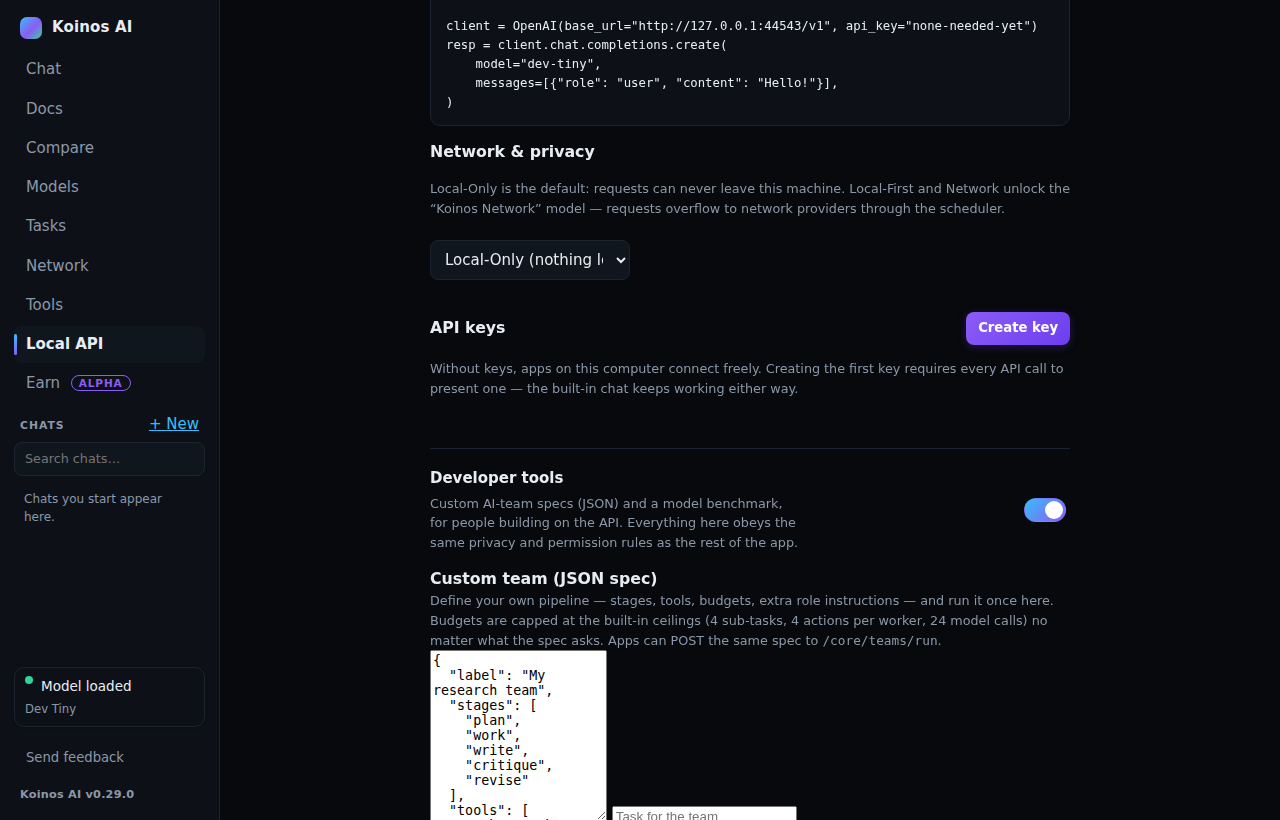
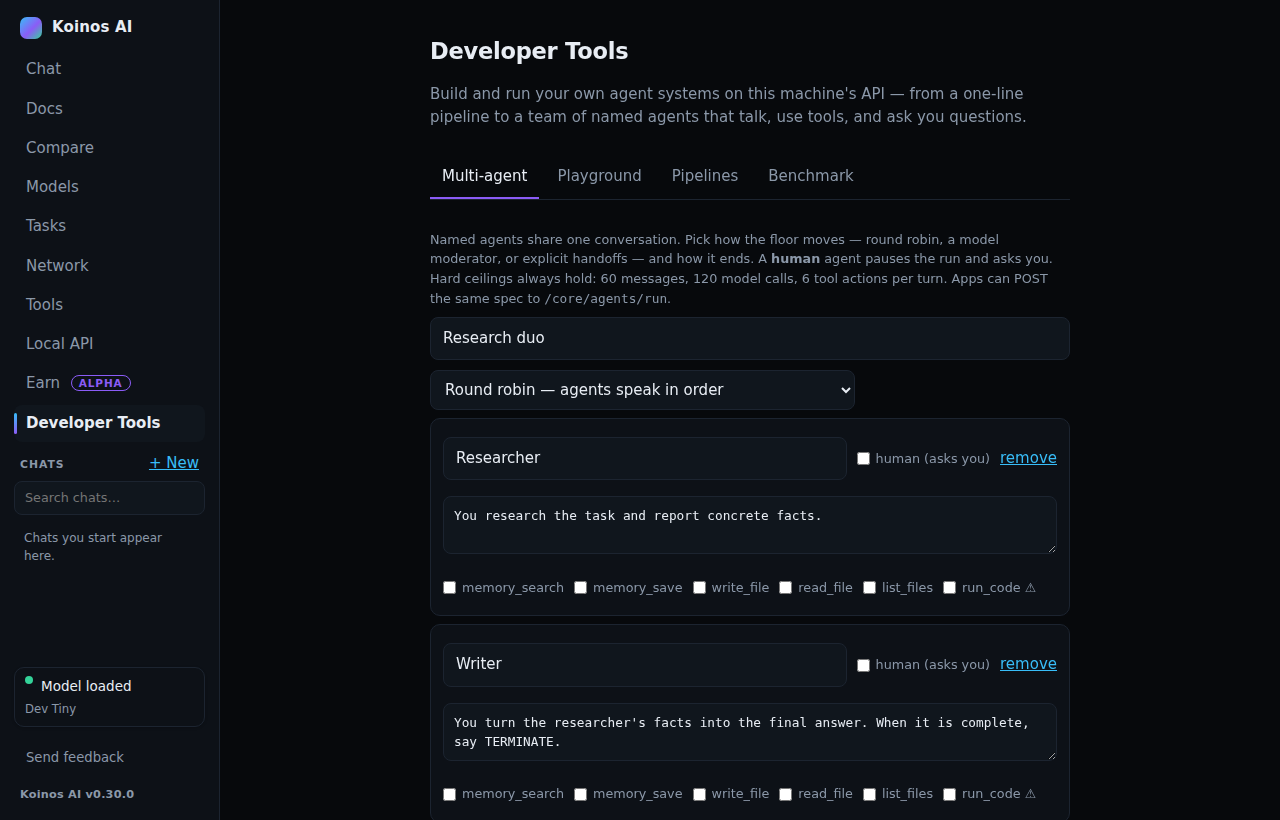
docs: Developer Tools page — multi-agent builder, playground, pipelines, bench
New sidebar page for the v0.30.0 Developer Tools view: turning it on,
building conversational teams (modes, human-in-the-loop, ceilings),
the live playground, the simple pipeline track, the benchmark, and
the HTTP endpoints behind all of it. local-api.md's developer section
now points here. All screenshots regenerated from a real v0.30.0
build — api-dev.png shows the new Multi-agent builder, plus two new
shots (playground, pipelines). Docs probe: 14 pages, green.

diff --git a/public/docs/index.html b/public/docs/index.html
@@ -83,6 +83,7 @@ const PAGES = [
   { id: "tools", title: "Tools, agents & MCP" },
   { id: "teams", title: "AI Teams & run code" },
   { id: "koinos-code", title: "Koinos Code (CLI)" },
+  { id: "developer-tools", title: "Developer Tools" },
   { id: "email-calendar", title: "Email, calendar, memory" },
   { id: "node", title: "Run a Koinos node" },
   { group: "Reference" },

diff --git a/public/docs/content/developer-tools.md b/public/docs/content/developer-tools.md
@@ -1,0 +1,56 @@
+# Developer Tools — build your own agent systems
+
+**Developer Tools** (v0.30.0+) is its own section in the sidebar, for people who want more than the built-in team templates: design your own multi-agent systems — named agents that talk to each other, use tools, and even pause to ask *you* — then run them live.
+
+## Turn it on
+
+1. Open **Local API** and flip the **Developer tools** switch at the bottom.
+2. **Developer Tools** appears in the sidebar. Click it.
+
+You should see: a page with four sections along the top — **Multi-agent**, **Playground**, **Pipelines**, **Benchmark**.
+
+![Developer Tools — the Multi-agent builder](img/api-dev.png)
+
+## Multi-agent — teams that converse
+
+Unlike the simple pipelines, a multi-agent team is a **conversation**: named agents share one transcript and take turns.
+
+1. Give the team a name and pick how the floor moves:
+   - **Round robin** — agents speak in order, cycling.
+   - **Selector** — a model moderator reads the conversation and picks who speaks next.
+   - **Handoff** — the current speaker keeps the floor until it passes it by name.
+2. Add agents with **+ Add agent**. Each has a name, role instructions, and its own tools. Tick **human (asks you)** to put *yourself* in the team — when your turn comes, the run pauses and waits for your words.
+3. Set when it ends: a message limit, a model-call limit, and an end phrase (an agent saying "TERMINATE" stops the run).
+4. **Write the JSON below** turns the form into the spec — the JSON box is always what actually runs. **Save team** keeps it for later.
+
+Rules that always hold, whatever the spec says: at most 8 agents, 60 messages, 120 model calls, and 6 tool actions per turn — budgets only go *down*. A team with `run_code` still asks you before any code executes, exactly like everywhere else in the app.
+
+## Playground — watch it run
+
+![The Playground — a live team conversation](img/devtools-playground.png)
+
+1. Pick a team (the JSON in the builder, or a saved one), type a task, click **Run**.
+2. Each agent's turn appears as a named bubble; tool calls show underneath in small text.
+3. When a **human** agent's turn comes, an input box appears — the run waits for you (up to its timeout, 5 minutes by default). **Stop** ends a run at any time.
+
+You should see: the conversation building live, then a final line like `ended: "TERMINATE" spoken — 7 model calls`.
+
+## Pipelines — the simple track
+
+![Pipelines — the one-line team spec](img/devtools-pipelines.png)
+
+The original custom-team format: one pipeline of typed stages (plan → work → write → critique → revise) with a small JSON spec. Budgets cap at 4 sub-tasks, 4 actions per worker, 24 model calls. Good for jobs that don't need a conversation — research-and-summarize, compute-and-explain.
+
+## Benchmark — score your model
+
+Runs a fixed suite of ten objective tasks (arithmetic, exact instruction following, JSON output, extraction, counting, a tool-using agent case) and scores mechanically. Same tasks every run, so scores compare across models and app versions.
+
+## For apps: the same power over HTTP
+
+Everything this page does, your own programs can do against the local API (all endpoints need the Developer tools switch on):
+
+- `POST /core/agents/run` — run a multi-agent spec; the conversation streams back as server-sent events, including `input-request` events when a human agent must speak.
+- `POST /core/agents/input` — answer a pending human turn.
+- `GET/POST/DELETE /core/agents/defs` — saved team definitions.
+- `POST /core/teams/run` — the simple pipeline track.
+- `POST /core/bench/run` — the benchmark.

diff --git a/public/docs/content/local-api.md b/public/docs/content/local-api.md
@@ -38,30 +38,8 @@ The localhost control plane (`/core/...`) drives everything the UI does — and 
 - `GET /core/teams` — list the AI Team templates.
 - `POST /core/teams/run` — run a team; the whole trace streams back as server-sent events.
 
-## Developer tools (v0.28.9+)
+## Developer tools (v0.30.0+)
 
-At the bottom of the Local API view there is a **Developer tools** switch. It ships **off**; flip it and a panel appears with two things:
+At the bottom of the Local API view there is a **Developer tools** switch. It ships **off**; flip it and a **Developer Tools** section appears in the sidebar — its own page with four parts: build full multi-agent teams (named agents that converse, use tools, and can pause to ask you), watch them run in a live playground, define simple pipeline teams, and benchmark your model on a fixed objective suite.
 
-![Developer tools on — the custom team spec box and the benchmark](img/api-dev.png)
-
-### Custom team (JSON spec)
-
-Instead of the built-in team templates, define your own pipeline as JSON — which stages run (`plan`, `work`, `write`, `critique`, `revise`), which tools the workers may use, budget limits, and extra per-role instructions. The box comes prefilled with a working example:
-
-1. Click the **Developer tools** switch. The panel opens with an example spec.
-2. Edit the spec (or keep it), type a task in **Task for the team**, and click **Run team**.
-3. Watch the live trace — every stage and tool call prints as it happens, then the answer.
-
-Rules that always hold, whatever the spec says:
-
-- Budgets only go **down**: 4 sub-tasks, 4 actions per worker, and 24 model calls are hard ceilings.
-- Your role instructions are **added to** the built-in ones, never replacing them.
-- The switch reveals capability, not permission — a spec that includes `run_code` still asks you before anything executes, exactly like the Analyst template.
-
-Apps can POST the same spec to `POST /core/teams/run` (as `{"spec": {...}, "question": "...", "model": "..."}`).
-
-### Benchmark
-
-**Run benchmark** scores the current model on a fixed suite of ten objective tasks — arithmetic, exact instruction following, JSON output, extraction, counting, and a tool-using agent case. Every check is mechanical (a regex, a substring, a JSON shape), so the score is honest and comparable across models and app versions.
-
-You should see: a ✓/✗ line per task as it finishes, then a score line like `Score: 6/10 on "core" with koinos-fast`. Small local models fail some of these — that is the point of measuring. The last report is also saved to `bench-last.json` in the app's data folder, and the same suite is available at `POST /core/bench/run`.
+The whole area is documented on its own page: **Developer Tools** in this sidebar. The switch reveals capability, not permission — anything involving `run_code` still asks you before code executes, and every tool call obeys the same privacy rules as the rest of the app.
